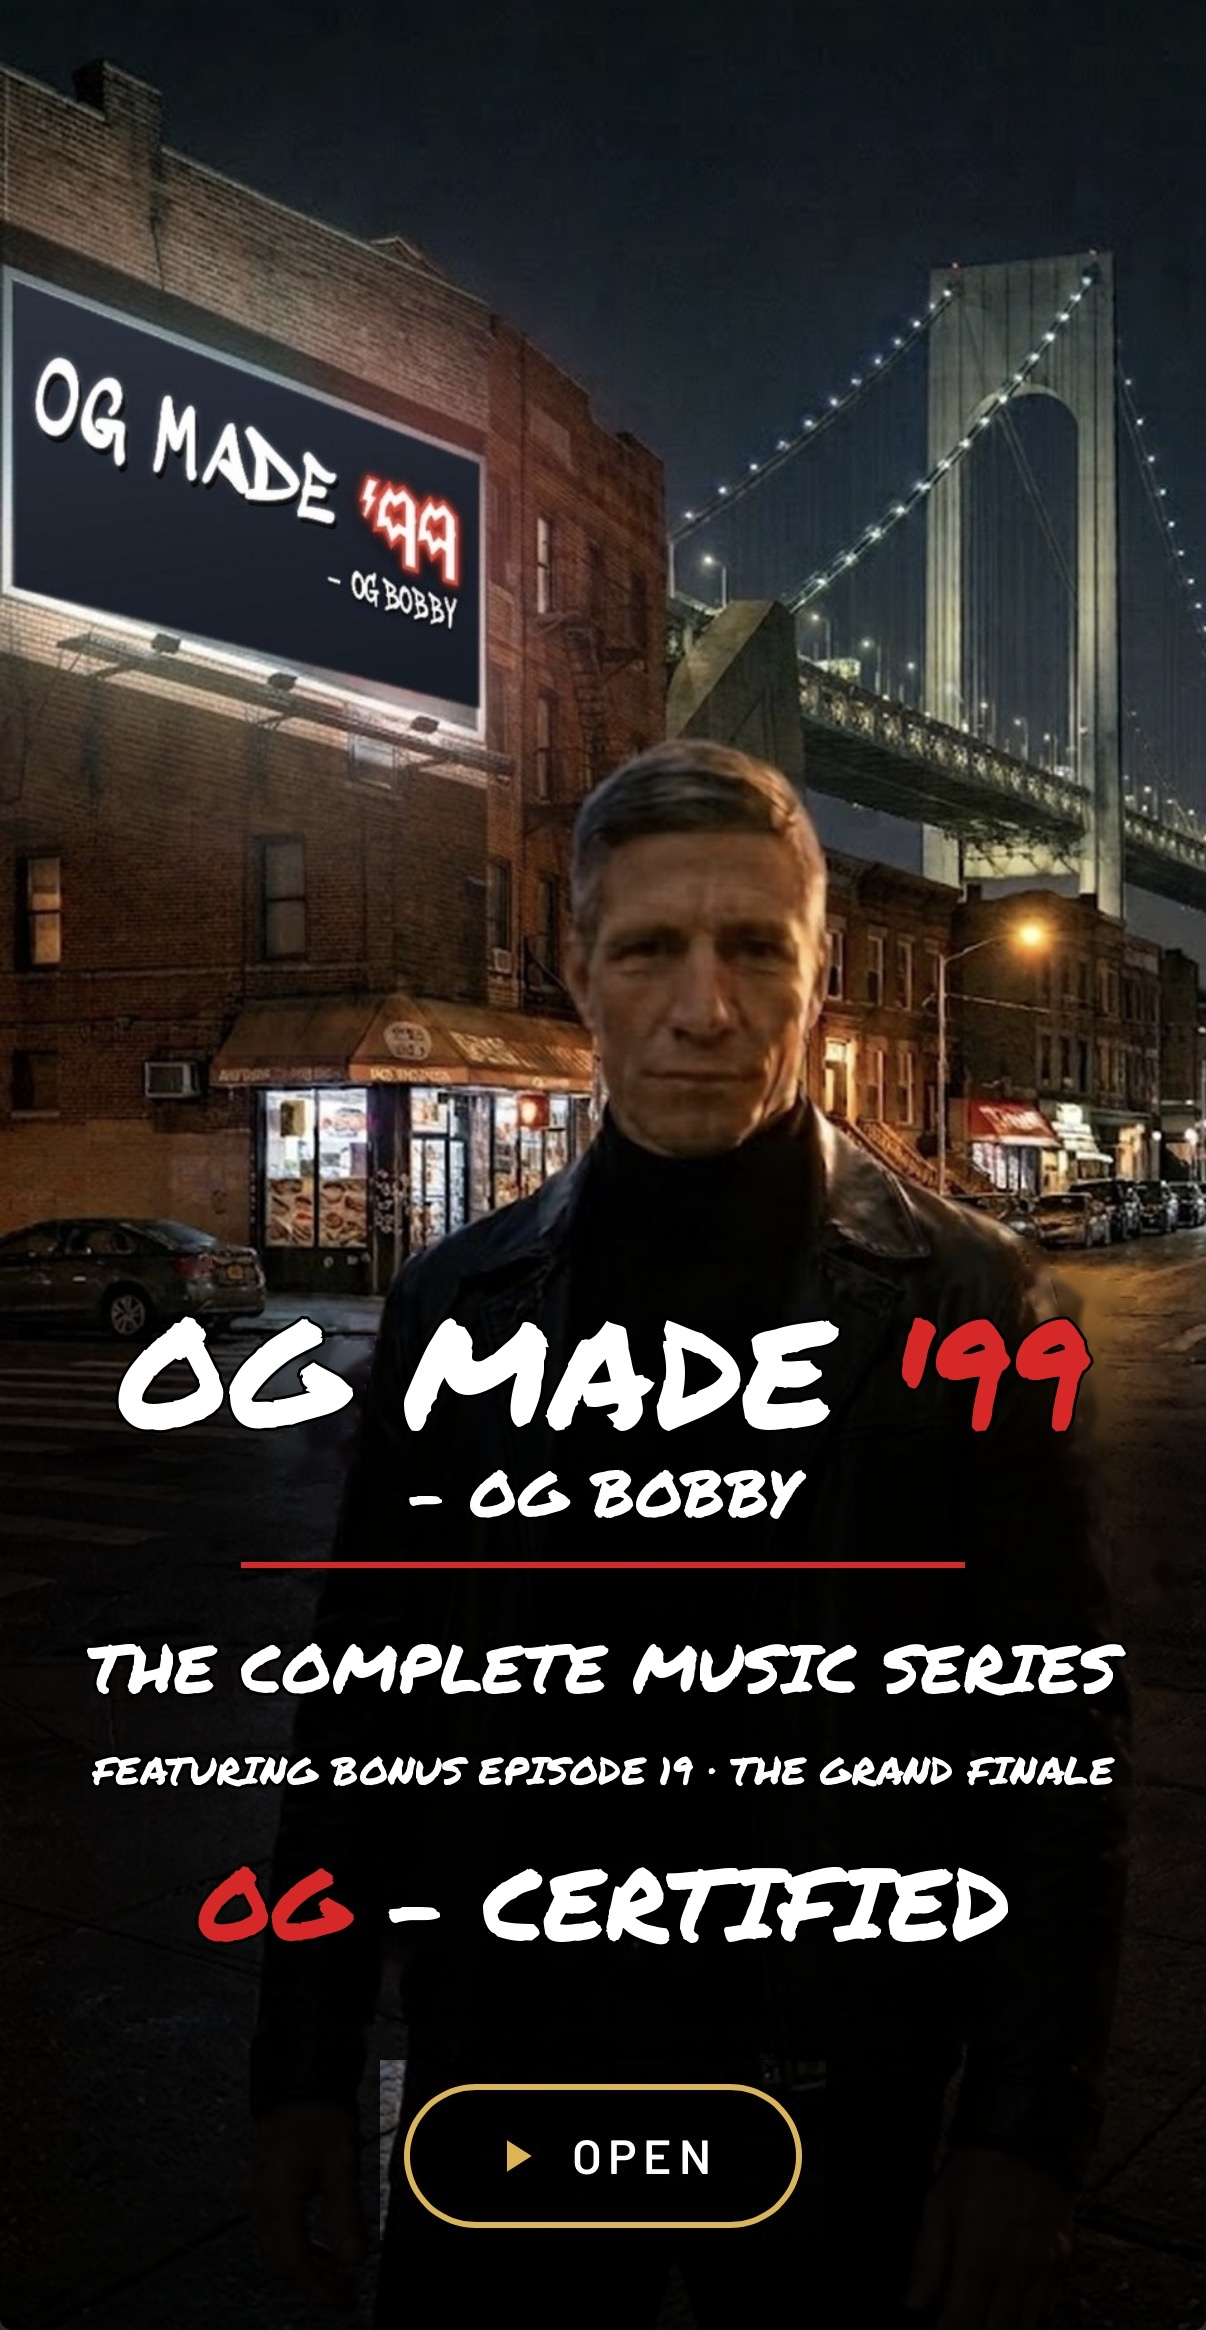
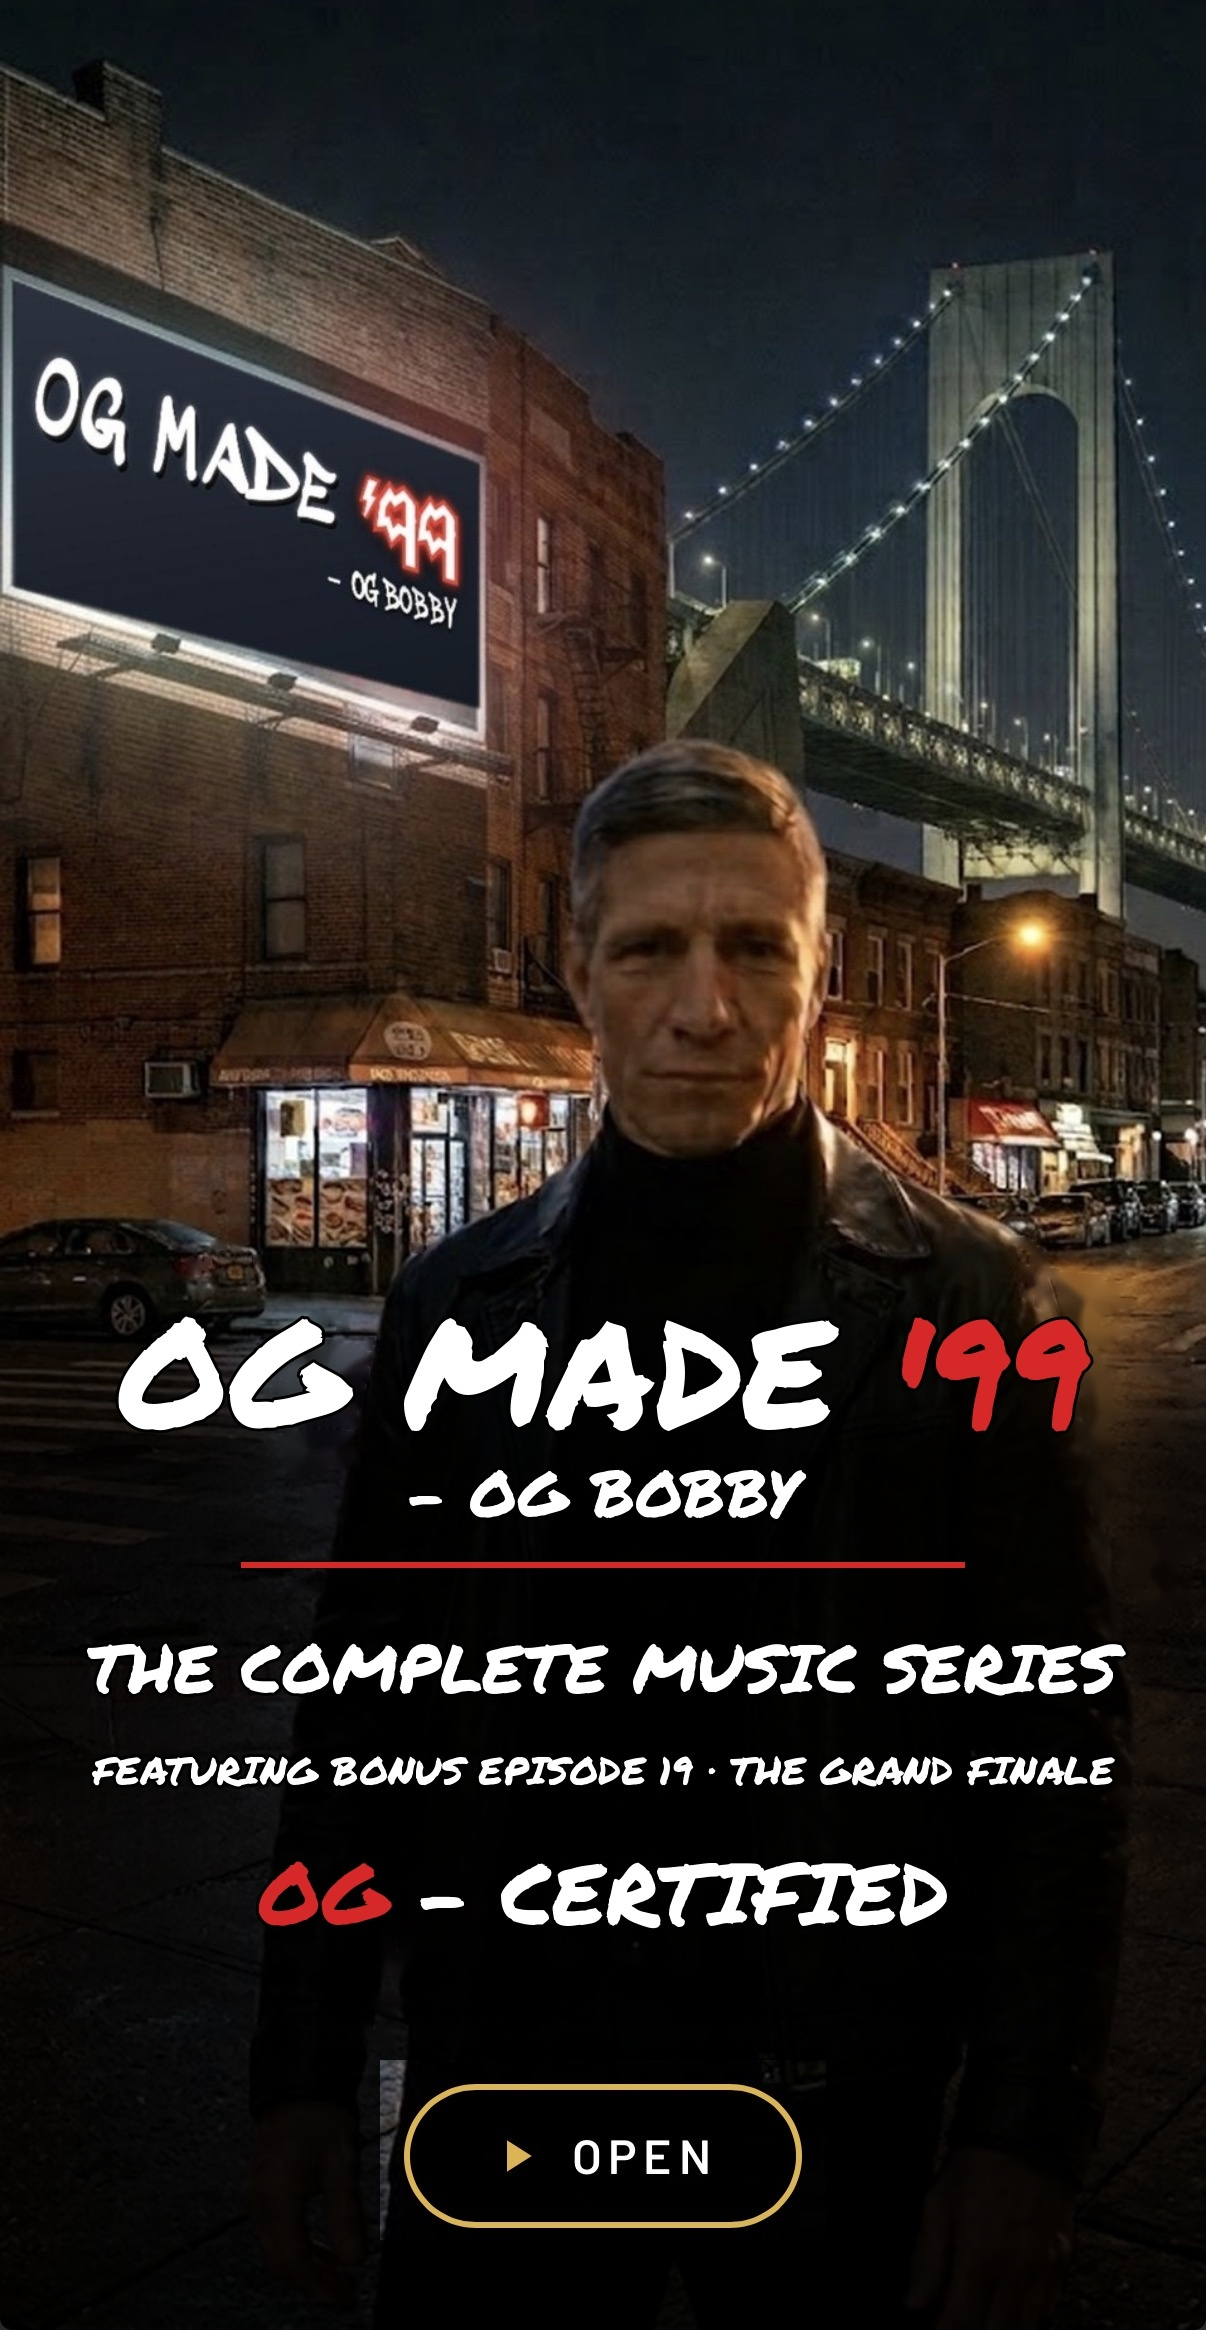
OG Made '99 complete series: OG Certified line 15% smaller
Claude-Session: https://claude.ai/code/session_01HXyZ2FfrDRgHpKxUajcaZB

Changed region(s): [[0.3988, 0.7725, 0.8284, 0.8343], [0.1534, 0.8034, 0.3682, 0.8343]]

diff --git a/og-certified-19-b7e4c1/index.html b/og-certified-19-b7e4c1/index.html
@@ -57,7 +57,7 @@ body { font-family: var(--body); font-size: 16px; -webkit-tap-highlight-color: t
 .cover-txt .open svg { width: 18px; height: 18px; fill: var(--gold); }
 
 /* Songs view */
-#bgArt { position: fixed; inset: 0; z-index: 0; background: #0a0d0b url("art.jpg?v=10") 50% 30% / cover no-repeat; filter: blur(18px) brightness(.35); transform: scale(1.1); }
+#bgArt { position: fixed; inset: 0; z-index: 0; background: #0a0d0b url("art.jpg?v=11") 50% 30% / cover no-repeat; filter: blur(18px) brightness(.35); transform: scale(1.1); }
 .wrap { position: relative; z-index: 1; max-width: 540px; margin: 0 auto; padding: 0 16px 48px; display: grid; gap: 16px; }
 .top { display: flex; align-items: center; justify-content: space-between; gap: 12px; }
 .top .back { flex: none; width: 44px; height: 44px; border-radius: 50%; border: 1px solid var(--line); background: rgba(0,0,0,.5); display: grid; place-items: center; cursor: pointer; }
@@ -140,7 +140,7 @@ footer { color: var(--soft); font-size: .8rem; text-align: center; }
 </head>
 <body>
 <div id="cover" role="button" tabindex="0" aria-label="Open OG MADE ’99">
-  <img class="art" src="art.jpg?v=10" alt="OG Bobby on a Bay Ridge street at night, the Verrazzano Bridge behind him and an OG MADE ’99 billboard on the corner">
+  <img class="art" src="art.jpg?v=11" alt="OG Bobby on a Bay Ridge street at night, the Verrazzano Bridge behind him and an OG MADE ’99 billboard on the corner">
     <div class="cover-txt sky">
     <span class="open"><svg viewBox="0 0 24 24"><path d="M8 5v14l11-7z"/></svg>Open</span>
   </div>
